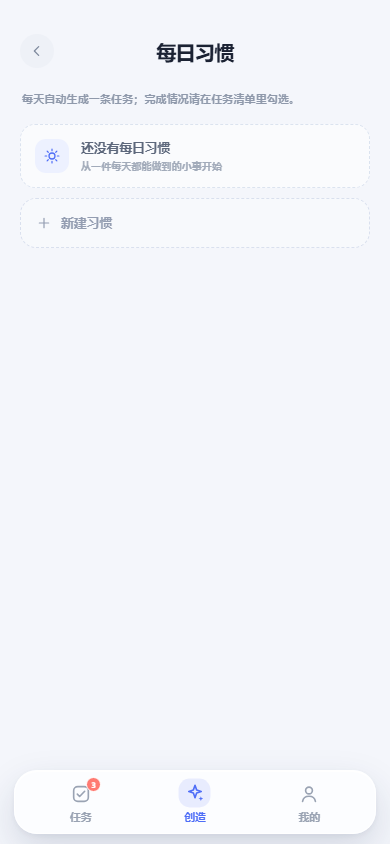
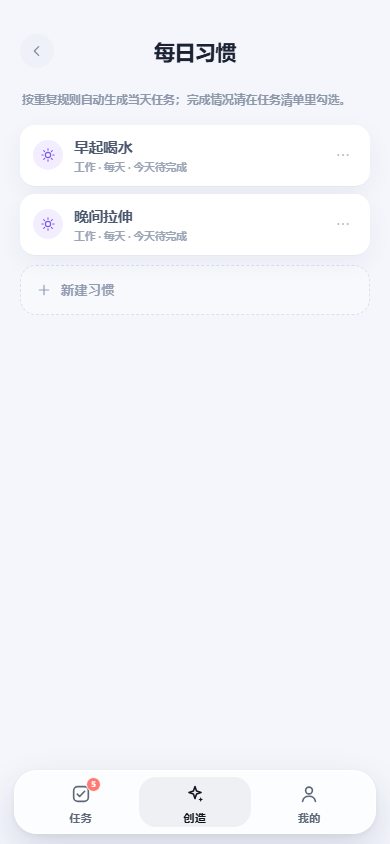
docs: refresh previews and README for 1.12.9

diff --git a/README.md b/README.md
@@ -2,10 +2,9 @@
 
 一个离线优先的轻量任务、目标和每日习惯管理应用。
 
-网页端是纯 HTML / CSS / JavaScript，无框架、无构建步骤；Android 端使用 Capacitor 7 打包，安装后完全离线可用。
+网页端使用原生 HTML / CSS / JavaScript，无框架、无构建步骤；Android 端由 Capacitor 7 打包，安装后完全离线可用。
 
-> 仓库地址：`https://github.com/kccQM/qinglist`  
-> 下载 APK：请在 GitHub 仓库的 **Releases** 页面下载最新版本。
+[在线预览](https://kccqm.github.io/qinglist/) · [下载最新 APK](https://github.com/kccQM/qinglist/releases/latest)
 
 ![任务页](preview.png)
 
@@ -13,65 +12,45 @@
 
 ### 任务
 
-- 按日期查看待办，顶部日期条支持横向滑动。
-- 新建、编辑、完成、恢复、顺延和删除任务。
-- 点击任务卡在列表内原地展开详情，不再弹出底部详情层。
-- 已完成任务可以删除，但不能编辑。
-- 所有任务删除都需要二次确认。
-- 任务可以归入自定义清单。
-- 日期条圆点标记当天是否有任务。
+- 按日期查看待办，日期条支持横向滑动。
+- 逾期任务单独展示，可单条或一键顺延到今天。
+- 点击任务卡原地展开详情，长按右侧三点拖动排序。
+- 支持子任务，子任务全部完成后自动完成母任务。
+- 已完成任务可删除，删除前二次确认。
+- 任务可归入自定义清单。
 
 ### 目标
 
-- 按天 / 周 / 月创建目标，支持自定义周期和开始日期。
-- 自动拆解为每日行动，并同步到任务清单。
-- 周计划可以增删周数，每周完成情况自动更新。
-- 目标支持编辑和删除，删除时同步处理关联任务。
+- 按天 / 周 / 月创建目标，自动拆解并同步到任务清单。
+- 支持每周目标和每日行动编辑。
+- 目标卡片支持颜色修改，拆解页支持深色模式。
+- 删除目标时同步处理关联任务。
 
 ### 每日习惯
 
-- 创造页右上角进入独立「每日习惯」页。
-- 习惯每天自动生成一条当天任务。
-- 习惯卡片本身不可勾选，完成入口统一在任务清单。
-- 支持编辑、删除习惯和连续天数展示。
-- 新建习惯入口固定在列表末尾。
+- 独立「每日习惯」页，支持每天 / 每周重复。
+- 可设置星期、结束日期，到期自动生成当天任务。
+- 太阳图标随机使用清单五色，可点击修改颜色。
+- 完成入口统一在任务清单，支持连续天数展示。
 
-### 清单与统计
+### 清单、搜索与统计
 
-- 清单支持新建、改名、改色和删除。
-- 删除清单时，关联任务、目标和习惯会移动到其他清单。
-- 至少保留一个清单。
-- 统计页展示日完成度、周完成度和目标完成度。
-- 字体大小可调，设置会保存在本地。
+- 清单支持新建、改名、改色和删除；点击进入清单详情。
+- 清单详情可查看任务和子任务，并批量删除。
+- 全局搜索覆盖任务、目标、习惯和清单。
+- 统计页展示日 / 周 / 目标完成度，今日进度圆环可直接跳转统计。
 
-### 数据
+### 外观与数据
 
+- 深色模式默认跟随系统，可手动切换或恢复跟随系统。
+- 字体提供小紧凑 / 标准 / 特大三档。
 - 数据保存在 `localStorage`，无需登录和服务器。
-- 支持 JSON 导出 / 导入备份。
-- 导入兼容没有清单字段的旧备份。
+- 支持 JSON 导出 / 导入备份，导入兼容旧备份。
 - 清空示例任务不会影响真实数据。
-
-### 设计
-
-- 全页面顶部安全区适配，避免内容顶到状态栏。
-- 浅色状态栏背景 + 深色状态栏图标。
-- 输入框聚焦不显示蓝色外框，保留内填充和内侧细描边。
-- 底部表单跟随键盘上移，全屏向导按键盘高度收缩。
-- 页面文字不可选择，输入框内可正常编辑。
-- 更浅的蓝色品牌色和 App 图标。
-
-## 最近更新
-
-- 任务支持逾期顺延、拖拽排序、子任务和折叠完成的列表。
-- 每日习惯支持每天 / 每周重复、结束日期和随机颜色。
-- 目标拆解支持深色模式、颜色选择和内容流底部操作。
-- 全局搜索、统计跳转、独立清单详情和批量删除。
-- 深色模式跟随系统，并修复启动白屏。
-- 统一二级页面渐隐回弹、底部导航栏和弹层样式。
 
 ## 预览
 
-| 任务 | 原地展开详情 |
+| 任务 | 任务详情 |
 | --- | --- |
 | ![任务](preview.png) | ![任务详情](preview-taskdetail.png) |
 
@@ -83,49 +62,17 @@
 | --- | --- |
 | ![清单](preview-lists.png) | ![统计](preview-stats.png) |
 
-## 技术栈
+### 深色模式
 
-- HTML5
-- CSS3（原生变量、Grid、过渡动画）
-- 原生 JavaScript
-- `localStorage`
-- Capacitor 7
-- Android SDK 35 / JDK 21
-
-## 目录结构
-
-```text
-qinglist/
-  index.html              # 网页入口
-  app.js                  # 应用逻辑
-  styles.css              # 样式
-  serve.py                # 本地静态服务器
-  preview*.png            # 预览图
-  mobile/
-    package.json          # Capacitor 工程
-    capacitor.config.json
-    assets/               # 图标和启动图源文件
-    scripts/
-      sync-web.js         # 同步根目录网页资源到 www
-      generate-assets.py  # 生成 Android 图标
-    android/              # Android 原生工程
-```
+![深色模式](preview-dark.png)
 
 ## 本地运行网页
-
-在仓库根目录：
 
 ```bash
 python serve.py 8080
 ```
 
-然后打开：
-
-```text
-http://localhost:8080
-```
-
-也可以使用任意静态文件服务器。
+打开 `http://localhost:8080`。也可以使用任意静态文件服务器。
 
 ## 构建 Android APK
 
@@ -139,34 +86,27 @@ npm run build:debug
 发布构建需要先配置本地签名：
 
 1. 复制 `mobile/android/keystore.properties.example` 为 `mobile/android/keystore.properties`。
-2. 把你的 keystore 放到 `mobile/android/keystore/`。
+2. 将 keystore 放到 `mobile/android/keystore/`。
 3. 修改 `keystore.properties` 中的路径和密码。
-4. 执行：
+4. 执行 `npm run build:release`。
 
-```bash
-npm run build:release
-```
+生成文件：`mobile/android/app/build/outputs/apk/release/app-release.apk`。
 
-生成文件：
-
-```text
-mobile/android/app/build/outputs/apk/release/app-release.apk
-```
-
-`keystore.properties`、`*.jks` 和 `*.keystore` 已在 `.gitignore` 中排除，不要提交。
+`keystore.properties`、`*.jks` 和 `*.keystore` 已加入 `.gitignore`，不要提交。
 
 ## 数据与升级
 
-- 应用数据只保存在本机浏览器或 WebView 的 `localStorage` 中。
+- 数据只保存在本机浏览器或 WebView 的 `localStorage`。
 - Android 覆盖安装不会清除应用数据。
 - 卸载应用或清除应用数据会丢失本地数据，重要数据请先导出 JSON 备份。
 
+## 技术栈
+
+- HTML5 / CSS3 / 原生 JavaScript
+- `localStorage`
+- Capacitor 7
+- Android SDK 35 / JDK 21
+
 ## 版本
 
-当前版本：`1.12.9`
-
-当前版本说明见 [CHANGELOG.md](CHANGELOG.md)。
-
-## 说明
-
-- 当前仓库未自动添加开源许可证；如需公开采用，请补充 `LICENSE`。
+当前版本：`1.12.9`。版本说明见 [CHANGELOG.md](CHANGELOG.md)。
